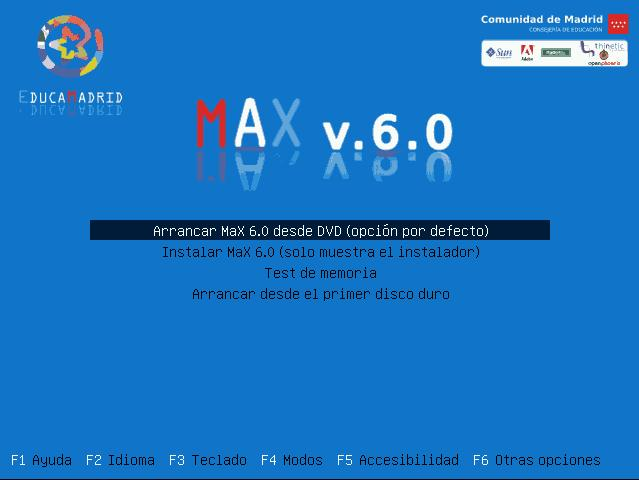
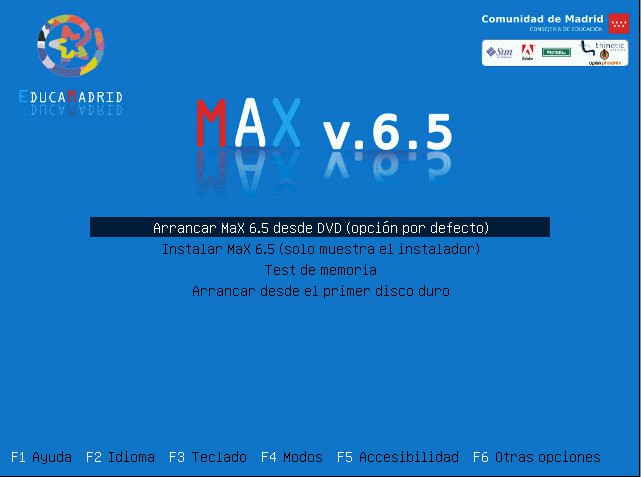
max-win32-apps (6.0.max3)   * Update for MaX 6.5
git-svn-id: http://max.educa.madrid.org:8000/svn/trunk@1021 424cea3e-0240-0410-9575-8bd47b58cd33

diff --git a/max-win32-apps/instalables/aplicacioneswin.html b/max-win32-apps/instalables/aplicacioneswin.html
@@ -3,7 +3,7 @@
 <html xmlns="http://www.w3.org/1999/xhtml">
 
 <head>
-  <title>Bienvenidos a MaX 6.0</title>
+  <title>Bienvenidos a MaX 6.5</title>
   <meta http-equiv="Content-Type" content="text/html; charset=UTF-8" />
 <style type="text/css">
 <!--
@@ -78,7 +78,7 @@ Si todav&iacute;a quieres seguir utilizando Windows, aqu&iacute; te proponemos u
           <a href="http://www.mozilla.org/projects/thunderbird/">
           <img src="img/thunderbird.png" border="0"></a></td>
       <td width="10px"></td>
-      <td width="400px" valign="top"><b>Thunderbird</b> es un potente y estable cliente de correo, adem&aacute;s de lector de noticias y RSS.(<a href="http://download.mozilla.org/?product=thunderbird-3.1.7&os=win&lang=es-ES">Descargar</a>)</td>
+      <td width="400px" valign="top"><b>Thunderbird</b> es un potente y estable cliente de correo, adem&aacute;s de lector de noticias y RSS.(<a href="http://www.mozilla.org/en-US/thunderbird/all.html">Descargar</a>)</td>
       <td width="10px"></td>
    </tr>
 </table>
@@ -108,7 +108,7 @@ Si todav&iacute;a quieres seguir utilizando Windows, aqu&iacute; te proponemos u
           <a href="http://www.videolan.org/vlc/">
           <img src="img/vlc.png" border="0"></a></td>
       <td width="10px"></td>
-      <td width="400px" valign="top"><b>VLC</b> es un reproductor de medios audiovisuales que soporta la mayor&iacute;a de los codecs..(<a href="http://sourceforge.net/projects/vlc/files/1.1.5/win32/vlc-1.1.5-win32.exe/download">Descargar</a>)</td>
+      <td width="400px" valign="top"><b>VLC</b> es un reproductor de medios audiovisuales que soporta la mayor&iacute;a de los codecs..(<a href="http://www.videolan.org/vlc/download-windows.html">Descargar</a>)</td>
       <td width="10px"></td>
    </tr>
 </table>
@@ -132,13 +132,13 @@ Si todav&iacute;a quieres seguir utilizando Windows, aqu&iacute; te proponemos u
           <a href="http://www.gimp.org/">
           <img src="img/gimp.png" border="0"></a></td>
       <td width="10px"></td>
-      <td width="400px" valign="top"><b>GIMP</b> (GNU Image Manipulation Program) es un programa de edici&oacute;n de im&aacute;genes digitales en forma de mapa de bits, tanto dibujos como fotograf&iacute;as. Es un programa libre y gratuito. Forma parte del proyecto GNU y est&aacute; disponible bajo la Licencia p&uacute;blica general de GNU. (<a href="http://downloads.sourceforge.net/project/gimp-win/GIMP%20Help%202/GIMP%20Help%202.6.0%20%28updated%20installer%29/gimp-help-2-2.6.0-es-setup.exe?r=http%3A%2F%2Fgimp-win.sourceforge.net%2Fstable.html&ts=1292178919&use_mirror=switch">Descargar</a>)</td>
+      <td width="400px" valign="top"><b>GIMP</b> (GNU Image Manipulation Program) es un programa de edici&oacute;n de im&aacute;genes digitales en forma de mapa de bits, tanto dibujos como fotograf&iacute;as. Es un programa libre y gratuito. Forma parte del proyecto GNU y est&aacute; disponible bajo la Licencia p&uacute;blica general de GNU. (<a href="http://sourceforge.net/projects/gimp-win/files/GIMP%20%2B%20GTK%2B%20%28stable%20release%29/GIMP%202.6.11%20%2B%20GTK%2B%202.16.6/gimp-2.6.11-i686-setup-1.exe/download">Descargar</a>)</td>
       <td width="10px"></td>
       <td width="100px">
           <a href="http://inkscape.org/?lang=es">
           <img src="img/inkscape.png" border="0"></a></td>
       <td width="10px"></td>
-      <td width="400px" valign="top"><b>Inkscape</b> es un editor de gr&aacute;ficos vectoriales de c&oacute;digo abierto, con capacidades similares a Illustrator, Freehand, CorelDraw o Xara X, usando el est&aacute;ndar de la W3C: el formato de archivo Scalable Vector Graphics (SVG).(<a href="http://downloads.sourceforge.net/inkscape/Inkscape-0.48.0-1.exe">Descargar</a>)</td>
+      <td width="400px" valign="top"><b>Inkscape</b> es un editor de gr&aacute;ficos vectoriales de c&oacute;digo abierto, con capacidades similares a Illustrator, Freehand, CorelDraw o Xara X, usando el est&aacute;ndar de la W3C: el formato de archivo Scalable Vector Graphics (SVG).(<a href="http://sourceforge.net/projects/inkscape/files/inkscape/0.48.2/Inkscape-0.48.2-1-win32.exe/download">Descargar</a>)</td>
       <td width="10px"></td>
    </tr>
    <tr>
@@ -158,13 +158,13 @@ Si todav&iacute;a quieres seguir utilizando Windows, aqu&iacute; te proponemos u
           <a href="http://projects.gnome.org/dia/">
           <img src="img/dia.png" border="0"></a></td>
       <td width="10px"></td>
-      <td width="400px" valign="top"><b>Dia</b> es un editor de diagramas inspirado en Visio. Actualmente puede dise&ntilde;ar diagramas de flujo, diagramas de relaci&oacute;n, UML y muchos otros. (<a href="http://sourceforge.net/projects/dia-installer/files/dia-win32-installer/0.97.1/dia-setup-0.97.1-1.exe/download">Descargar</a>)</td>
+      <td width="400px" valign="top"><b>Dia</b> es un editor de diagramas inspirado en Visio. Actualmente puede dise&ntilde;ar diagramas de flujo, diagramas de relaci&oacute;n, UML y muchos otros. (<a href="http://sourceforge.net/projects/dia-installer/files/dia-win32-installer/0.97.1/dia-setup-0.97.1-2.exe/download">Descargar</a>)</td>
       <td width="10px"></td>
       <td width="100px">
           <a href="http://www.blender.org/">
           <img src="img/blender.png" border="0"></a></td>
       <td width="10px"></td>
-      <td width="400px" valign="top"><b>Blender</b> es un programa inform&aacute;tico multiplataforma, dedicado especialmente al modelado, animaci&oacute;n y creaci&oacute;n de gr&aacute;ficos tridimensionales. (<a href="http://sourceforge.net/projects/dia-installer/files/dia-win32-installer/0.97.1/dia-setup-0.97.1-1.exe/download">Descargar</a>)</td>
+      <td width="400px" valign="top"><b>Blender</b> es un programa inform&aacute;tico multiplataforma, dedicado especialmente al modelado, animaci&oacute;n y creaci&oacute;n de gr&aacute;ficos tridimensionales. (<a href="http://www.blender.org/dl/http://download.blender.org/release/Blender2.60/blender-2.60a-release-windows32.exe">Descargar</a>)</td>
       <td width="10px"></td>
    </tr>
 </table>
@@ -326,7 +326,7 @@ Si todav&iacute;a quieres seguir utilizando Windows, aqu&iacute; te proponemos u
           <a href="http://www.mozilla-europe.org/es/firefox/">
           <img src="img/firefox.png" border="0"></a></td>
       <td width="10px"></td>
-      <td width="400px" valign="top"><b>Firefox</b>, uno de los navegadores m&aacute;s r&aacute;pidos y eficientes. Dispone de gran cantidad de complementos que pueden ser a&ntilde;adidos. (<a href="http://download.mozilla.org/?product=firefox-3.6.13&os=win&lang=es-ES">Descargar</a>)</td>
+      <td width="400px" valign="top"><b>Firefox</b>, uno de los navegadores m&aacute;s r&aacute;pidos y eficientes. Dispone de gran cantidad de complementos que pueden ser a&ntilde;adidos. (<a href="http://www.mozilla.org/en-US/firefox/all.html">Descargar</a>)</td>
       <td width="10px"></td>
       <td width="100px">
           <a href="http://kompozer.net/">

diff --git a/max-win32-apps/instalables/arrancarmax.html b/max-win32-apps/instalables/arrancarmax.html
@@ -3,7 +3,7 @@
 <html xmlns="http://www.w3.org/1999/xhtml">
 
 <head>
-  <title>Bienvenidos a MaX 6.0</title>
+  <title>Bienvenidos a MaX 6.5</title>
   <meta http-equiv="Content-Type" content="text/html; charset=UTF-8" />
 <style type="text/css">
 <!--
@@ -81,7 +81,7 @@ Una vez configurada la secuencia de arranque, tendrá que guardar la nueva confi
 A continuación se le pedirá la confirmación de que desea salir y guardar los datos, y para ello pulse la tecla Intro en la opción YES, tal como se muestra en la figura siguiente.<center><center><img src="img/captura4.jpg"></center></center>
 </p>
 <p>
-El ordenador se reiniciará en ese momento, asegúrese de que el DVD, o el CD, de MAX 6.0 esta metido en el lector de CD/DVD, si no es así el ordenador arrancará desde el disco duro. Cuando pueda introduzca el DVD, o el CD, de MAX 6.0 y reinicie el ordenador. Aparecer&aacute; la siguiente pantalla:<center><img src="img/captura5.jpg"></center>
+El ordenador se reiniciará en ese momento, asegúrese de que el DVD, o el CD, de MAX 6.5 esta metido en el lector de CD/DVD, si no es así el ordenador arrancará desde el disco duro. Cuando pueda introduzca el DVD, o el CD, de MAX 6.5 y reinicie el ordenador. Aparecer&aacute; la siguiente pantalla:<center><img src="img/captura5.jpg"></center>
 </p>
 <p>Si dejamos que arranque solo, se mostrará la pantalla principal de MAX y podrá comenzar a utilizarlo.<center><img src="img/captura6.jpg"></center>
 </p>

diff --git a/max-win32-apps/instalables/index.html b/max-win32-apps/instalables/index.html
@@ -3,7 +3,7 @@
 <html xmlns="http://www.w3.org/1999/xhtml">
 
 <head>
-  <title>Bienvenidos a MaX 6.0</title>
+  <title>Bienvenidos a MaX 6.5</title>
   <meta http-equiv="Content-Type" content="text/html; charset=UTF-8" />
 <style type="text/css">
 <!--
@@ -46,7 +46,7 @@ strong { margin: 1.5em 0 0 0; font-weight: normal; color: #ed0d0d; /* rojo */ fo
 <div id="content">
 
 
-<h1 class="title"><a id="art-about-max" name="art-about-max"></a>Bienvenido a MaX 6.0</h1>
+<h1 class="title"><a id="art-about-max" name="art-about-max"></a>Bienvenido a MaX 6.5</h1>
 
 <p>
 Est&aacute;s ejecutando el DVD de <a href="http://www.educa2.madrid.org/web/max/">MAX: Madrid_Linux</a> desde un sistema Windows. Te proponemos dos opciones:<br>
